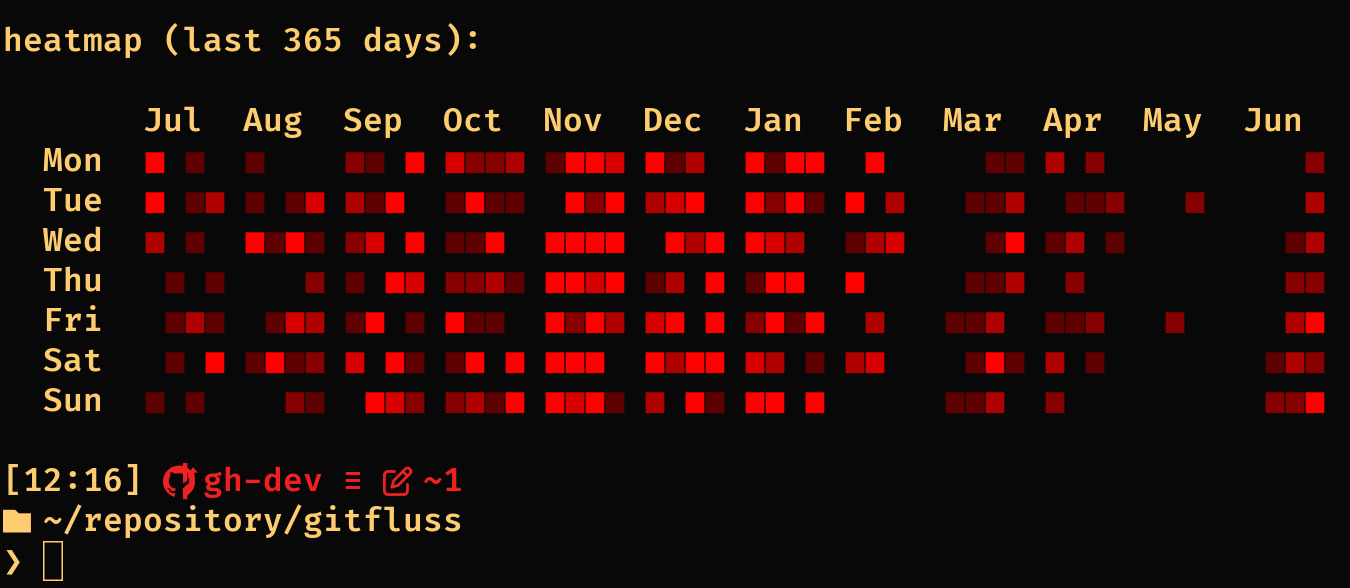
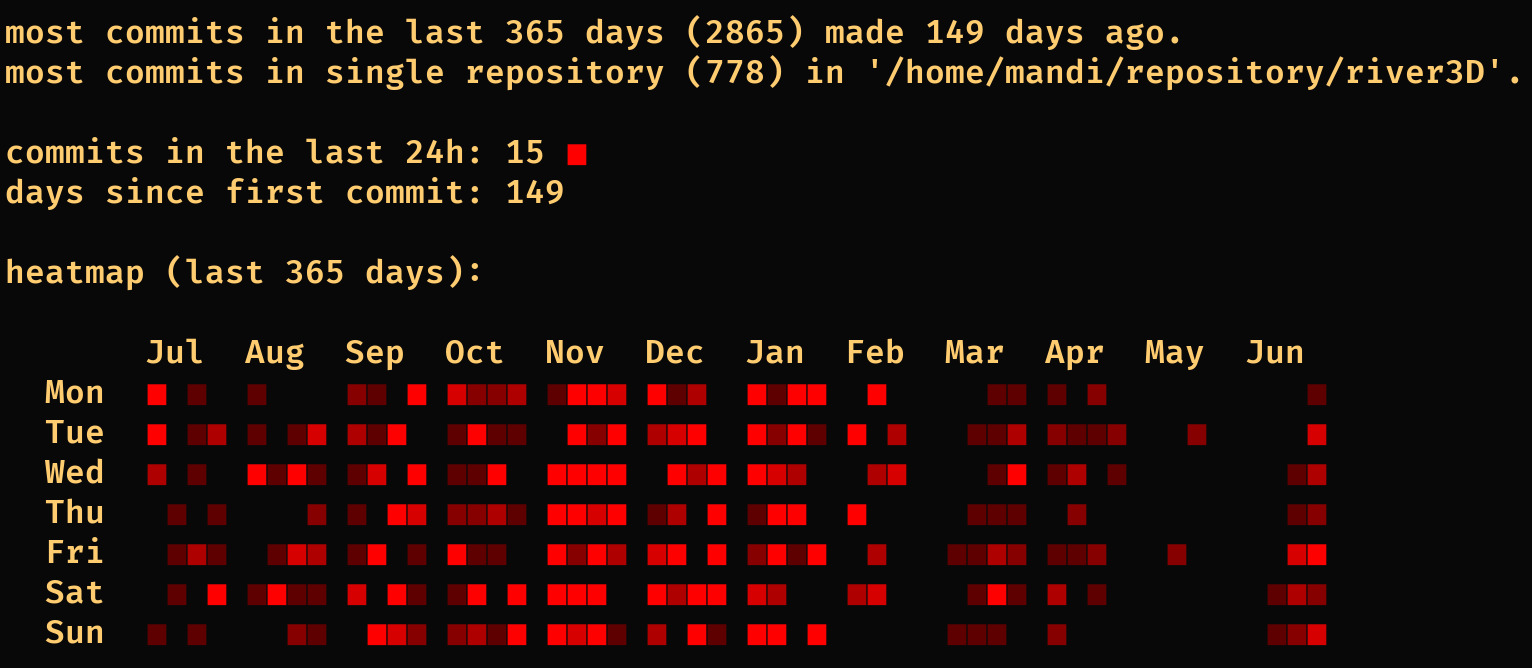
update README/screenshot/print

diff --git a/src/gitfluss_main.c b/src/gitfluss_main.c
@@ -418,10 +418,11 @@ int main
            ARG_SV(biggestRepo));
     printf("\ncommits in the last 24h: %u ", heatmap[0]);
     printCorrespondingHeat(heatmap[0], green);
+    printf("\n");
 
     uint32_t days_epoch  = now / (24 * 3600);
     uint32_t days_commit = (now - oldestCommitTime) / (24 * 3600);
-    printf("\ndays since epoch: %u\n", days_epoch);
+    // printf("\ndays since epoch: %u\n", days_epoch);
     printf("days since first commit: %u\n", days_commit);
 
     printf("\nheatmap (last 365 days):\n\n");

diff --git a/README.md b/README.md
@@ -4,6 +4,11 @@ Status:
 + You can also configure a list of authors to consider (by email)
 + You can choose a colour (red is default):
 
+The heatmap display is currently under construction, the data being presented is not
+truthful (yet). The stats above it are correctly identified, however.
+
+![red theme](screenshots/red.jpg)
+
 The configuration file location is `~/.config/gitfluss/.conf`. Gitfluss will look first
 in the current working directory for a `.conf` file and then in the config directory.
 
@@ -19,8 +24,9 @@ $HOME/repository/gitfluss
 $HOME/repository/bash-collection
 ```
 
-The heatmap display is currently under construction, the data being presented is not
-truthful (yet). But, it would look like follows:
+heatmap colour can also be changed in the configuration file with:
+```
+colour: green
+```
 
-![red theme](screenshots/red.jpg)
 ![green theme](screenshots/green.jpg)
